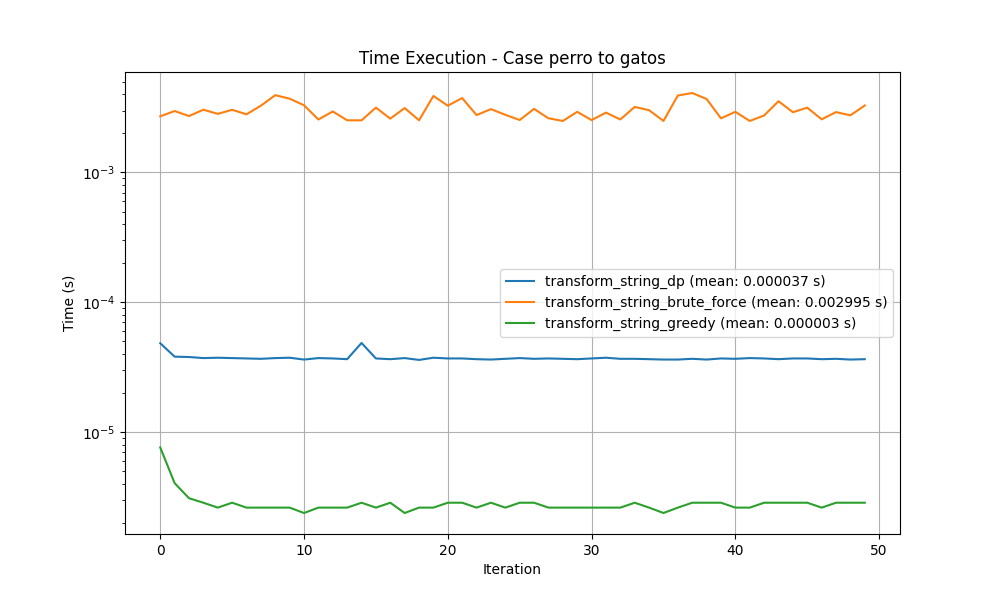
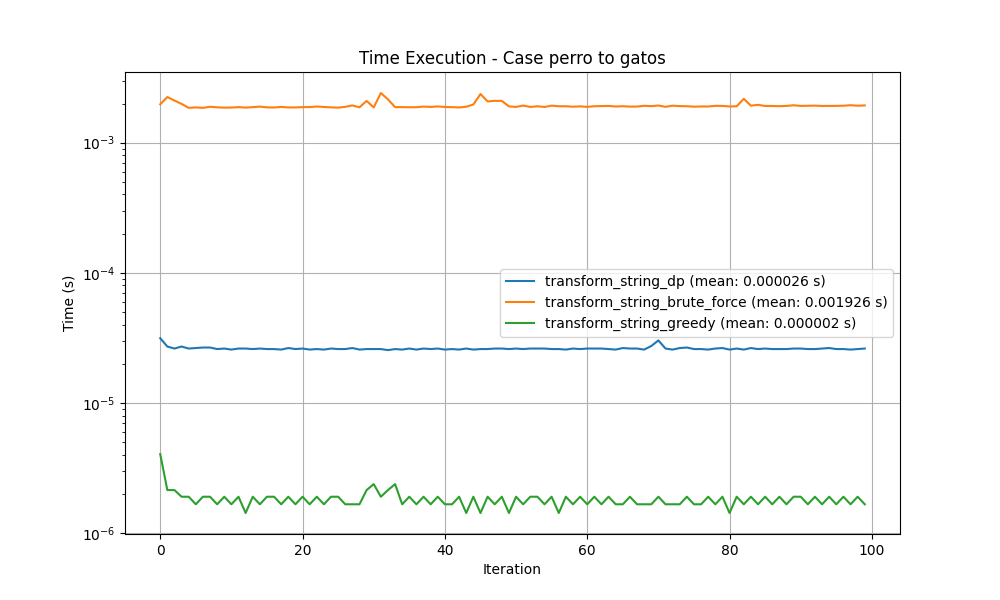
Increase benchmark iterations and add new test case for empty string transformation

diff --git a/test/test_benchmark.py b/test/test_benchmark.py
@@ -148,12 +148,16 @@ class Benchmark:
 
 
 if __name__ == '__main__':
-    benchmark = Benchmark(num_iterations=50, prefix='smart_terminal_')
+    benchmark = Benchmark(num_iterations=100, prefix='smart_terminal_')
     cost = {'advance': 1, 'delete': 2, 'replace': 3, 'insert': 2, 'kill': 1}
     A = 1000
     B = 100
 
     string_transform_cases = [
+        {
+            'name': 'Case empty to empty',
+            'args': [' ', ' ', cost],
+        },
         {
             'name': 'Case a to ab',
             'args': ['a', 'ab', cost],
@@ -221,7 +225,7 @@ if __name__ == '__main__':
         m = len(case['args'][0])
         n = len(case['args'][1])
         benchmark.add_function(transform_string_dp, case,theoretical_complexity=m * n)
-        benchmark.add_function(transform_string_brute_force, case, theoretical_complexity=4 ** (m + n))
+        benchmark.add_function(transform_string_brute_force, case, theoretical_complexity=4 ** min(m,n))
         benchmark.add_function(transform_string_greedy, case, theoretical_complexity=m + n)
 
     benchmark.plot_results_per_case()
